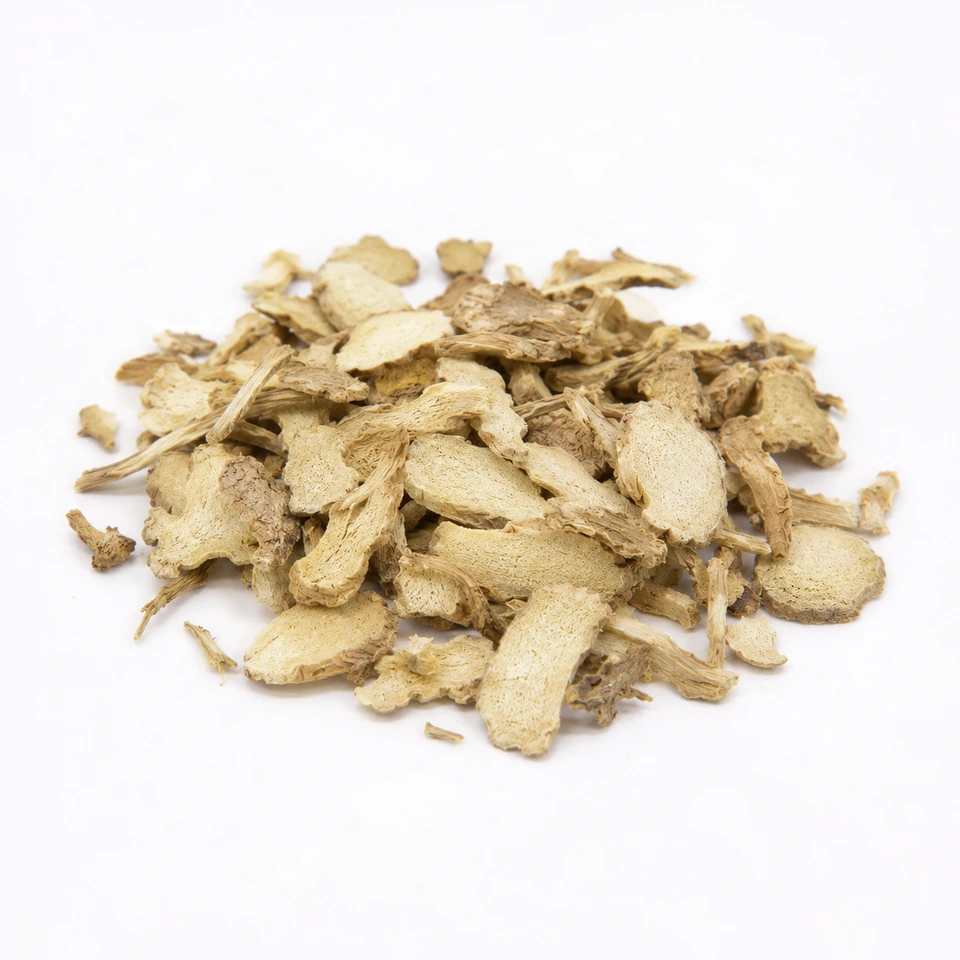
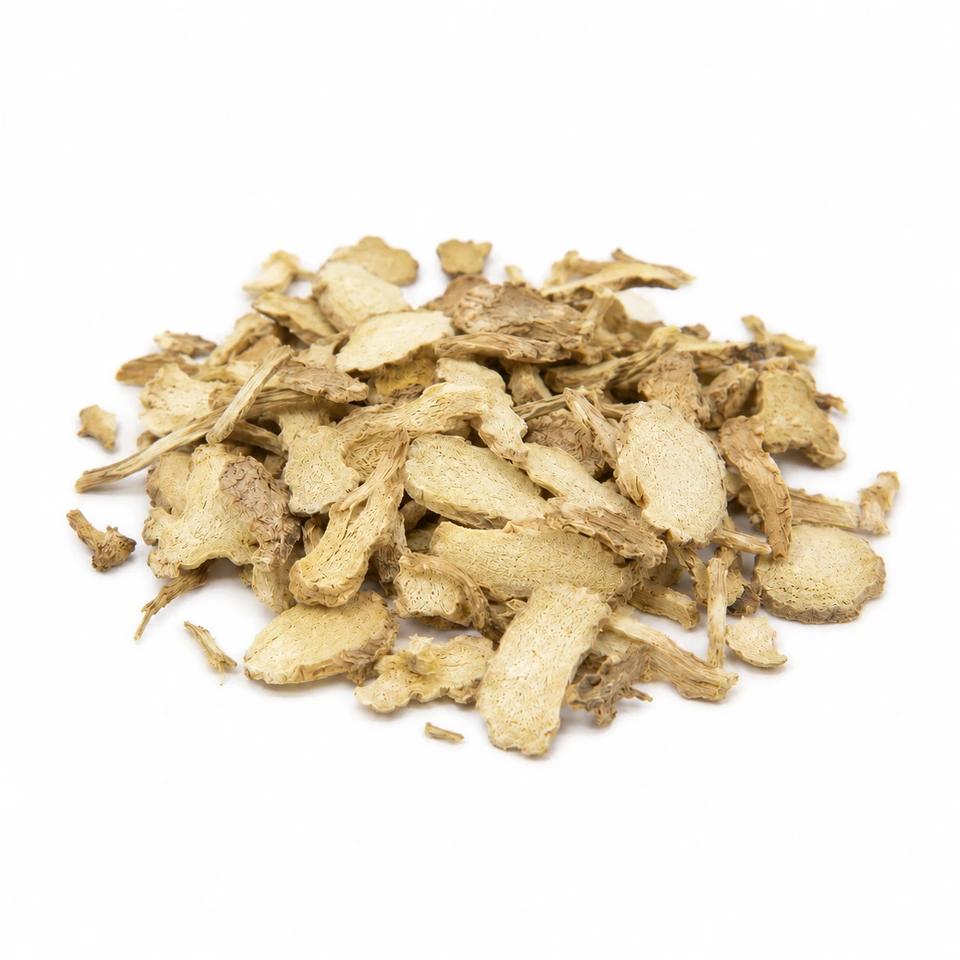
Correct domestic and imported ginger backgrounds to neutral white

diff --git a/app/ProductImage.js b/app/ProductImage.js
@@ -8,7 +8,7 @@ export default function ProductImage({ src, name, origin }) {
   const visible = Boolean(src) && !failed;
   const reference = src?.startsWith("/products-reference/");
   const localPhoto = reference || src?.startsWith("/products/");
-  const imageSrc = localPhoto ? `${src}${src.includes("?") ? "&" : "?"}photo=${src.split("?")[0] === "/products-reference/uniform-20261029/herb-001.webp" ? "gaja-20261117-v1" : src.split("?")[0] === "/products-reference/uniform-20261029/herb-003-v2.webp" ? "galgeun-20261117-v1" : src.split("?")[0] === "/products-reference/uniform-20261029/herb-004.webp" ? "galhwa-20261118-v1" : src.split("?")[0] === "/products-reference/uniform-20261029/herb-005.webp" ? "gamguk-20261118-v1" : src.split("?")[0] === "/products-reference/uniform-20261029/gamin-geomin.webp" ? "geomin-20261118-v1" : src.split("?")[0] === "/products-reference/uniform-20261029/herb-007.webp" ? "licorice-20261118-v1" : src.split("?")[0] === "/products-reference/uniform-20261029/gamcho-yangwai1-20261118.webp" ? "yangwai1-20261118-v3" : src.split("?")[0] === "/products-reference/uniform-20261029/gamcho-roasted-v2.webp" ? "roasted-20261118-v2" : src.split("?")[0].startsWith("/products-reference/uniform-20261029/gamcho-roasted-") ? "roasted-20261118-v2" : src.split("?")[0] === "/products-reference/uniform-20261029/herb-008.webp" ? "ganghwal-20261118-v1" : src.split("?")[0] === "/products-reference/uniform-20261029/herb-009-v2.webp" ? "jamganghwal-20261118-v3" : src.split("?")[0] === "/products-reference/uniform-20261029/herb-010.webp" ? "ganghwang-20261118-v2" : src.split("?")[0] === "/products-reference/uniform-20261029/herb-011.webp" ? "gaeja-20261118-v1" : src.split("?")[0] === "/products-reference/uniform-20261029/herb-012.webp" ? "ginger-20261118-v2" : src.split("?")[0] === "/products-reference/uniform-20261029/herb-013-v2.webp" ? "ginger-roasted-20261118-v1" : "linen-20261116-v2"}` : src;
+  const imageSrc = localPhoto ? `${src}${src.includes("?") ? "&" : "?"}photo=${src.split("?")[0] === "/products-reference/uniform-20261029/herb-001.webp" ? "gaja-20261117-v1" : src.split("?")[0] === "/products-reference/uniform-20261029/herb-003-v2.webp" ? "galgeun-20261117-v1" : src.split("?")[0] === "/products-reference/uniform-20261029/herb-004.webp" ? "galhwa-20261118-v1" : src.split("?")[0] === "/products-reference/uniform-20261029/herb-005.webp" ? "gamguk-20261118-v1" : src.split("?")[0] === "/products-reference/uniform-20261029/gamin-geomin.webp" ? "geomin-20261118-v1" : src.split("?")[0] === "/products-reference/uniform-20261029/herb-007.webp" ? "licorice-20261118-v1" : src.split("?")[0] === "/products-reference/uniform-20261029/gamcho-yangwai1-20261118.webp" ? "yangwai1-20261118-v3" : src.split("?")[0] === "/products-reference/uniform-20261029/gamcho-roasted-v2.webp" ? "roasted-20261118-v2" : src.split("?")[0].startsWith("/products-reference/uniform-20261029/gamcho-roasted-") ? "roasted-20261118-v2" : src.split("?")[0] === "/products-reference/uniform-20261029/herb-008.webp" ? "ganghwal-20261118-v1" : src.split("?")[0] === "/products-reference/uniform-20261029/herb-009-v2.webp" ? "jamganghwal-20261118-v3" : src.split("?")[0] === "/products-reference/uniform-20261029/herb-010.webp" ? "ganghwang-20261118-v2" : src.split("?")[0] === "/products-reference/uniform-20261029/herb-011.webp" ? "gaeja-20261118-v1" : src.split("?")[0] === "/products-reference/uniform-20261029/herb-012.webp" ? "ginger-20261118-v3" : src.split("?")[0] === "/products-reference/uniform-20261029/herb-013-v2.webp" ? "ginger-roasted-20261118-v1" : src.split("?")[0] === "/products-reference/uniform-20261029/ginger-domestic-20261118.webp" ? "ginger-domestic-20261118-v2" : "linen-20261116-v2"}` : src;
   const domesticGalgeun = /^갈근(?:\s*\((?:사각|강원문막)\))?$/.test(name || "")
     && /국내산|국산|한국|대한민국/.test(origin || "")
     && src?.split("?")[0] === "/products-reference/uniform-20261029/herb-003-v2.webp";
